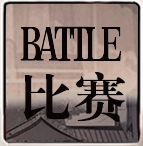
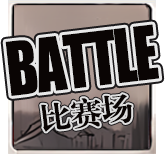
优化图标、跳过开始、看星星

diff --git a/src/components/PopupStar.vue b/src/components/PopupStar.vue
@@ -1,56 +1,132 @@
 <template>
-<div class="star-wall">
-	<div
+	<div class="star-wall">
+	  <div
 		v-for="(star, index) in stars"
 		:key="index"
-		:style="starStyle()"
+		:style="starStyle(index)"
 		class="star"
-	>
-	{{ star }}
+	  >
+		{{ star }}~🌟
+	  </div>
 	</div>
-</div>
-</template>
+	<div class="star-message">「在没有 星星 的时候，我们 自己 就是 星星 ⭐」</div>
+  </template>
   
-<script setup lang="ts">
-import { computed, ref } from "vue";
-import axios from "axios";
-
-const stars = ref([])
-
-function weAreStars() {
-  axios.get('https://api.jys-wtf.proxy.mayq.me/players').then(res => {
-    stars.value = res.data
-		console.log(res.data)
-    errorMessage.value = ""
-  }).catch(error => {
-    errorMessage.value = "网络错误，现在看不见星星㖏！"
-  })
-}
-
-weAreStars()
-
-const errorMessage = ref("")
-
-const starStyle = () => {
-return {
+  <script setup lang="ts">
+	import { computed, ref } from "vue";
+	import axios from "axios";
+  
+	const stars = ref([]);
+  
+	function weAreStars() {
+	  axios
+		.get("https://api.jys-wtf.proxy.mayq.me/players")
+		.then((res) => {
+		  stars.value = res.data;
+		  console.log(res.data);
+		  errorMessage.value = "";
+		})
+		.catch((error) => {
+		  errorMessage.value = "网络错误，现在看不见星星㖏！";
+		});
+	}
+  
+	weAreStars();
+  
+	const errorMessage = ref("");
+  
+	const starStyle = (index: number) => {
+	const animationDuration = (0.9 + Math.random() * 0.3)*9;
+	const randomKeyframeName = `twinkle-${index}-${Math.floor(
+	Math.random() * 10000
+	)}`;
+	createKeyframes(randomKeyframeName);
+	return {
 	position: "absolute",
-	left: `${Math.random() * 100}%`,
-	top: `${Math.random() * 100}%`,
-	color: `hsla(${Math.random() * 360}, 100%, 50%, 0.8)`,
-	fontSize: `${Math.random() * 2 + 1}em`,
-	fontWeight: "bold",
-	textShadow: "0 0 10px rgba(255, 255, 255, 0.8)"
-} as CSSStyleDeclaration;
-}
+	left: `${Math.random() * 200}%`,
+	top: `${Math.random() * 200}%`,
+	color: "#fffff3",
+	fontSize: `${(Math.random() * 2 + 1) / 10}rem`,
+	whiteSpace: "nowrap",
+	animation: `${randomKeyframeName} ${animationDuration}s infinite`,
+	animationDelay: `${Math.random()}s`,
+	transform: `translate(${Math.random() * 100 - 50}%, ${Math.random() * 100 - 50}%)`
 
+
+	} as CSSStyleDeclaration;
+};
+
+const createKeyframes = (name: string) => {
+	const style = document.createElement("style");
+	style.type = "text/css";
+
+	const randomTranslateX = (- 0.5 + Math.random()) * 99;
+    const randomTranslateY = (- 0.5 + Math.random())* 99;
+
+	style.innerHTML = `
+	@keyframes ${name} {
+		0% {
+		opacity: 1;
+		transform: translate(0, 0);
+		}
+
+		12.5% {
+		opacity: 0.5;
+		}
+
+		25% {
+		opacity: 1;
+		}
+
+		37.5% {
+		opacity: 0.5;
+		}
+
+		50% {
+		opacity: 1;
+		transform: translate(${randomTranslateX}px, ${randomTranslateY}px);
+		}
+
+		62.5% {
+		opacity: 0.5;
+		}
+
+		75% {
+		opacity: 1;
+		}
+
+		87.5% {
+		opacity: 0.5;
+		}
+
+		100% {
+		opacity: 1;
+		transform: translate(0, 0);
+		}
+	}
+	`;
+	document.getElementsByTagName("head")[0].appendChild(style);
+};
 </script>
   
 <style scoped>
 .star-wall {
-	width: 80vw;
 	height: 75vh;
-	overflow: hidden;
-	position: relative;
-	background-color: #1a1a1a;
+    overflow: scroll;
+    position: relative;
+    background-color: #1e2228;
+    box-shadow: 0 0 20px inset black;
+    border-radius: 0.25rem;
+}
+
+.star {
+	animation-duration: 1s;
+	animation-timing-function: ease-in-out;
+}
+
+.star-message {
+  font-size: 0.7rem;
+  color: #666;
+  margin-top: 0.5rem;
 }
 </style>

diff --git a/src/components/Game.css b/src/components/Game.css
@@ -186,14 +186,14 @@
 .going-out-back { top: 68%;  left: auto;  right: 5%; }
 .action-accompany-girlfriend {  background: url('@/assets/button_accompany-girlfriend.png') center / contain no-repeat;  width: 5vh;  height: 15.9vh;  top: 72%;  left: 21%; }
 .action-eat {  background: url('@/assets/button_eat.png') center / contain no-repeat;  width: 4.4vh;  height: 15.4vh;  top: 24%;  left: 16%; }
-.action-drink {  background: url('@/assets/button_drinking.png') center / contain no-repeat;  width: 4.6vh;  height: 14.95vh;  top: 54%;  left: 32%; }
+.action-drink {  background: url('@/assets/button_drinking.png') center / contain no-repeat;  width: 4.6vh;  height: 14.95vh;  top: 54%;  left: 31%; }
 .action-shopping {  background: url('@/assets/button_shopping.png') center / contain no-repeat;   width: 4.5vh;  height: 12.35vh;  top: 16%;  left: 38%; border: 1px solid #e7e0df; border-radius: 0.2rem;}
-.action-buy-gold {  background: url('@/assets/button_buy-gold.png') center / contain no-repeat;   width: 4.5vh;  height: 13.35vh;  top: 60%;  left: 47%; border: 1px solid #e7e0df; border-radius: 0.2rem;}
-.action-agency {  background: url('@/assets/button_agency.png') center / contain no-repeat;   width: 4.4vh;  height: 8.75vh;  top: 74%;  left: 28.4%; }
+.action-buy-gold {  background: url('@/assets/button_buy-gold.png') center / contain no-repeat;   width: 4.5vh;  height: 13.35vh;  top: 60%;  left: 46%; border: 1px solid #e7e0df; border-radius: 0.2rem;}
+.action-agency {  background: url('@/assets/button_agency.png') center / contain no-repeat;   width: 4.4vh;  height: 8.75vh;  top: 74%;  left: 28.4%; border: 1px solid #e7e0df; border-radius: 0.2rem;}
 .action-cut-hair {  background: url('@/assets/button_cut-hair.png') center / contain no-repeat;  width: 4.8vh;  height: 12vh;  top: 24%;  left: 56%; }
 .action-dao {  background: url('@/assets/button_Dao.png') center / contain no-repeat;   width: 4.9vh;  height: 9vh;  top: 27%;  right: 14%; }
 .action-underground {  background: url('@/assets/button_Underground.png') center / contain no-repeat;  width: 5.3vh;  height: 13.6vh;  top: 72%;  left: 12%; }
-.action-battle {  background: url('@/assets/button_Battle.png') center / contain no-repeat;  width: 7.15vh;  height: 7.3vh;  top: 70%;  left: 60%; border: 1px solid #e7e0df; border-radius: 0.2rem; }
+.action-battle {  background: url('@/assets/button_Battle.png') center / contain no-repeat;  width: 8.25vh;  height: 7.7vh;  top: 70%;  left: 60%; }
 
 /* Styling for pop-ups */
 .popup {

diff --git a/src/components/Game.vue b/src/components/Game.vue
@@ -20,8 +20,8 @@
 
 <div v-if="!showStartGameDialog && !gameEnded" class="attributes" :class="isGoingOut? 'going-out-attributes' : ''">
 
-  <div><span class="attribute-name">{{ attributeNames['popularity'] }}</span><span class="attribute-number">红 {{ attributes['popularity']['red'] }} / 黑 {{ attributes['popularity']['black'] }}</span></div>
-  <div><span class="attribute-name">{{ attributeNames['money'] }}</span><span class="attribute-number">{{ attributes['money'] }} <span v-if="signedAgency" @click="!isTyping && checkUnsignAgency()"><br>（二八分<small>{{ leftUnsignAgencyMonth }}/12月</small>）</span></span></div>
+  <div><span class="attribute-name">{{ attributeNames['popularity'] }}</span><span class="attribute-number">红 {{ Math.round(attributes['popularity']['red']) }} / 黑 {{ Math.round(attributes['popularity']['black']) }}</span></div>
+  <div><span class="attribute-name">{{ attributeNames['money'] }}</span><span class="attribute-number">{{ Math.round(attributes['money']) }} <span v-if="signedAgency" @click="!isTyping && checkUnsignAgency()"><br>（二八分<small>{{ leftUnsignAgencyMonth }}/12月</small>）</span></span></div>
   <div v-if="attributes['energy'] >= 0"><span class="attribute-name">{{ attributeNames['energy'] }}</span><span class="attribute-number">{{ attributes['energy'] }}<template v-if="weak">（虚弱！）</template></span></div>
   <div v-else><span class="attribute-name weak">体力透支</span><span class="attribute-number">{{ attributes['energy'] }} <template v-if="weak">（虚弱！）</template></span></div>
   <div><span class="attribute-name">{{ attributeNames['mood'] }}</span><span class="attribute-number">{{ attributes['mood'] }}</span></div>

diff --git a/src/components/DialogStartGame.vue b/src/components/DialogStartGame.vue
@@ -4,9 +4,6 @@
   <p class="desc" id="textboxPopup"></p>
   <div class="button-container">
     <button v-if="showStartButton" @click="startGame()" class="start-game-button">开始游戏</button>
-    <div class="quick-start-button-container">
-      <button v-if="showStartButton" @click="quickStartGame()" class="quick-start-button">（跳过开始）</button>
-    </div>
     <!-- 图片 @assets mic.png -->
   </div>
 </div>
@@ -41,12 +38,6 @@ const startGame = async () => {
   await store.dispatch('typeWriter', '【系统】终于到了十五岁，你长成了风一样的少年，这一天，你决定去——')
 }
 
-const quickStartGame = async () => {
-  showStartGameDialog.value = false
-  await store.dispatch('typeWriter', '【系统】终于到了十五岁，你长成了风一样的少年，这一天，你决定去——')
-
-}
-
 </script>
 
 <style scoped>
@@ -72,25 +63,8 @@ const quickStartGame = async () => {
   padding: 0.4rem 1rem;
   border: 2px solid #1e2228;
   margin-right: 0.25rem;
-  margin-bottom: 0.25rem;
+  margin-bottom: 0.5rem;
 }
-
-.game-start-dialog .quick-start-button-container {
-  margin: 0.25rem auto 0.3rem;
-  gap: 0.25rem;
-  display: flex;
-  justify-content: center;
-  align-items: center;
-}
-
-.game-start-dialog button.quick-start-button {
-  padding: 0.2rem;
-  font-size: 0.8rem;
-  border: none;
-  background: none;
-  color: #1e2228;
-}
-
 
 .game-start-dialog button.confirm-button {
   margin-bottom: 0.75rem;

diff --git a/src/components/Dialog.vue b/src/components/Dialog.vue
@@ -3,12 +3,27 @@
     <div v-if="visible" class="popup-container">
       <div class="popup">
         <slot></slot>
+        <div class="quick-start-button-container">
+          <button v-if="showStartGameDialog" @click="quickStartGame()" class="quick-start-button">（跳过开始）</button>
+        </div>
       </div>
     </div>
   </transition>
+  
 </template>
 
 <script setup lang="ts">
+import { useStore } from 'vuex';
+import { showStartGameDialog } from './composables/gameRefs';
+
+const store = useStore()
+
+const quickStartGame = async () => {
+  showStartGameDialog.value = false
+  await store.dispatch('typeWriter', '【系统】终于到了十五岁，你长成了风一样的少年，这一天，你决定去——')
+
+}
+
 const props = defineProps({
   title: String,
   visible: Boolean,
@@ -62,4 +77,27 @@ const props = defineProps({
 .fade-leave-to {
   opacity: 0;
 }
+
+
+.quick-start-button-container {
+  margin: 0.25rem auto 0.3rem;
+  gap: 0.25rem;
+  display: flex;
+  justify-content: center;
+  align-items: center;
+  position: absolute;
+  bottom: -2rem;
+  left: 50%;
+  transform: translateX(-50%);
+}
+
+button.quick-start-button {
+  padding: 0.2rem;
+  font-size: 0.8rem;
+  border: none;
+  background: none;
+  color: #fcfcfc;
+}
+
+
 </style>

diff --git a/src/components/PopupCharacter.vue b/src/components/PopupCharacter.vue
@@ -12,10 +12,10 @@
     <div><span class="attribute-name">{{ attributeNames['charm'] }}</span> {{ attributes['charm'] }}</div>
     <div><span class="attribute-name">{{ attributeNames['divine'] }}</span> <span>{{ attributes['divine'] }}</span></div>
 
-    <div><span class="attribute-name">{{ attributeNames['popularity'] }}</span> 红 {{ attributes['popularity']['red'] }} / 黑 {{ attributes['popularity']['black'] }}</div>
+    <div><span class="attribute-name">{{ attributeNames['popularity'] }}</span> 红 {{ Math.round(attributes['popularity']['red']) }} / 黑 {{ Math.round(attributes['popularity']['black']) }}</div>
     <div>
       <span class="attribute-name">{{ attributeNames['money'] }}</span> 
-      <span>￥{{ attributes['money'] }}  | {{ attributes['gold'] }}枚金条
+      <span>￥{{ Math.round(attributes['money']) }}  | {{ attributes['gold'] }}枚金条
         <button class="button_buyGold" @click="showBuyGoldPopup = true">买</button> / <button class="button_sellGold" @click="showSellGoldPopup = true">卖</button>
       </span>
     </div>

diff --git a/src/components/PopupDao.vue b/src/components/PopupDao.vue
@@ -20,7 +20,7 @@
 
 </PopupSub>
 
-<Popup title="看星星" :visible="showDaoPopup" @close="showDaoPopup = false">
+<Popup title="看星星" :visible="showStarPopup" @close="showStarPopup = false">
 <popup-star></popup-star>
 </Popup>
 
@@ -31,7 +31,7 @@ import { computed, ref } from 'vue'
 import { useStore } from 'vuex'
 
 import PopupSub from '../components/PopupSub.vue'
-import Popup from '../components/PopupSub.vue'
+import Popup from '../components/Popup.vue'
 import PopupStar from '../components/PopupStar.vue'
 import { showDaoPopup } from './composables/gameRefs';
 
